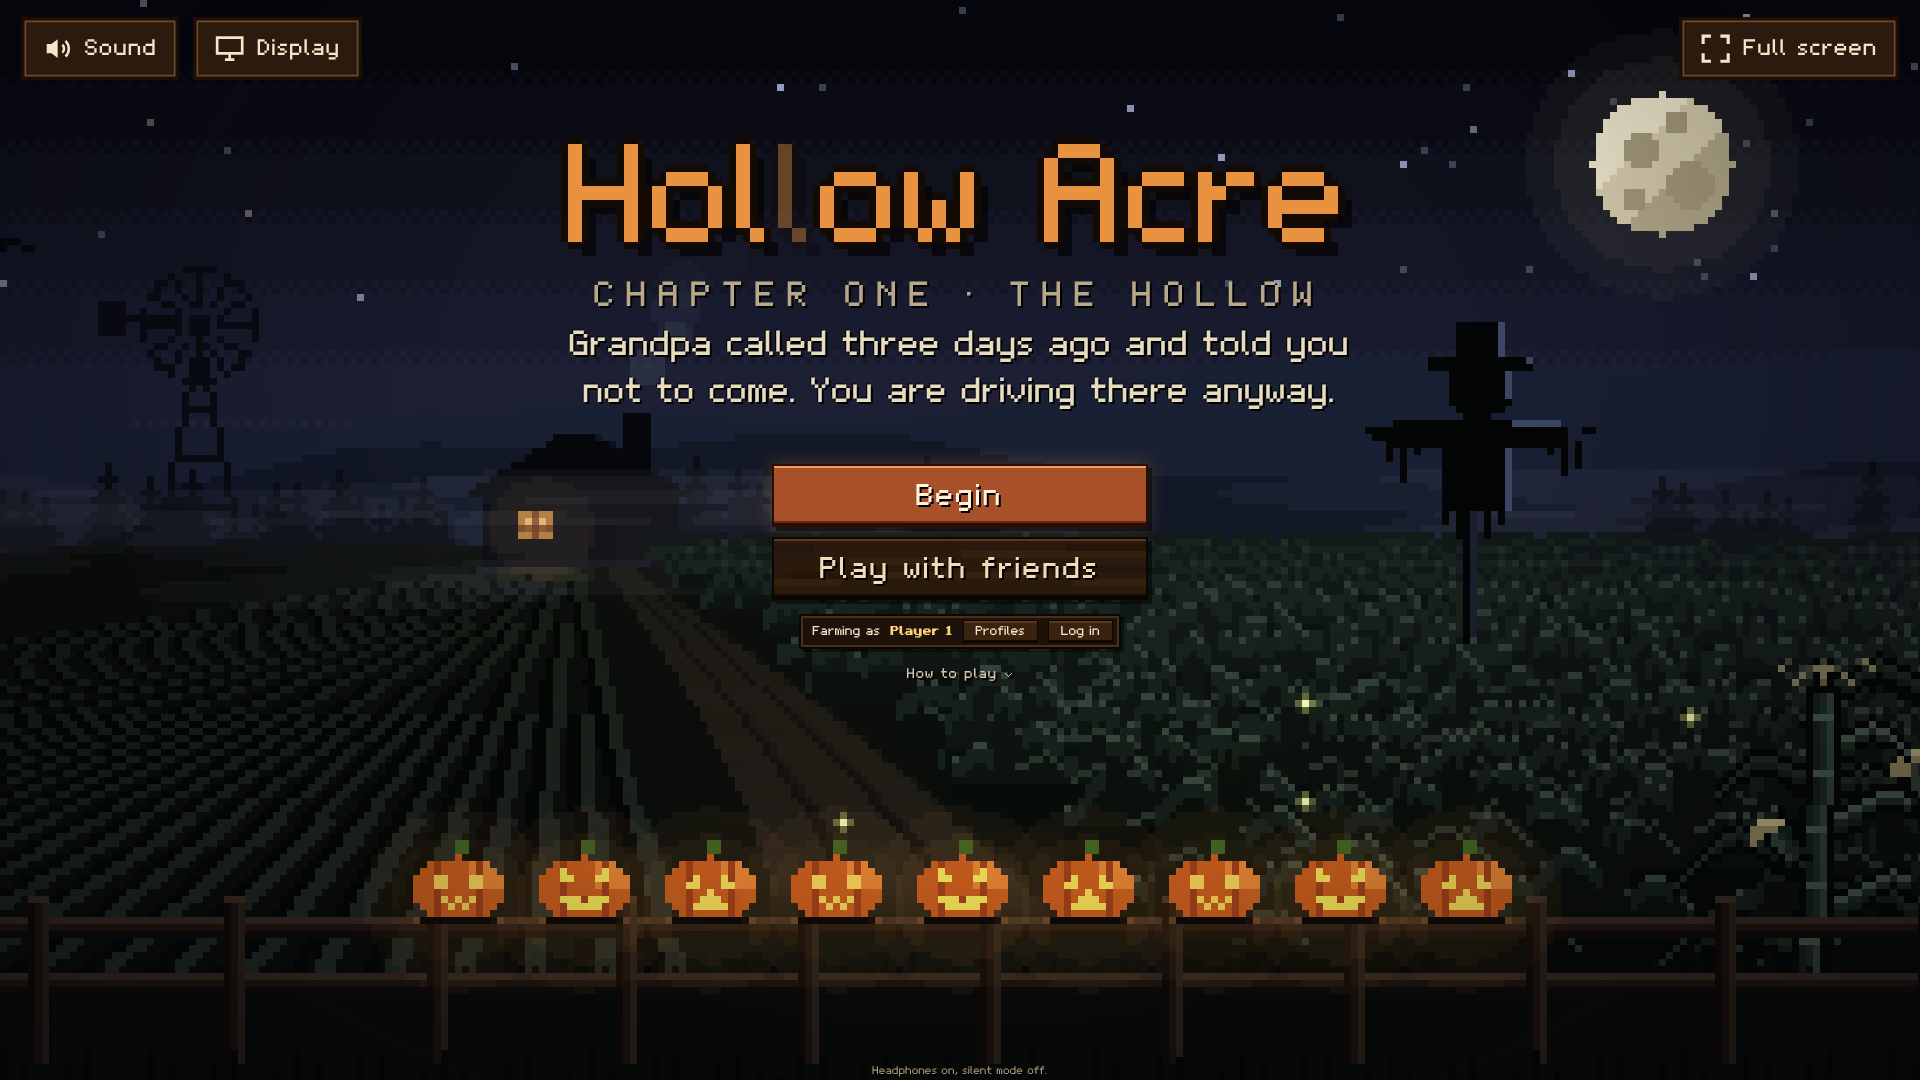
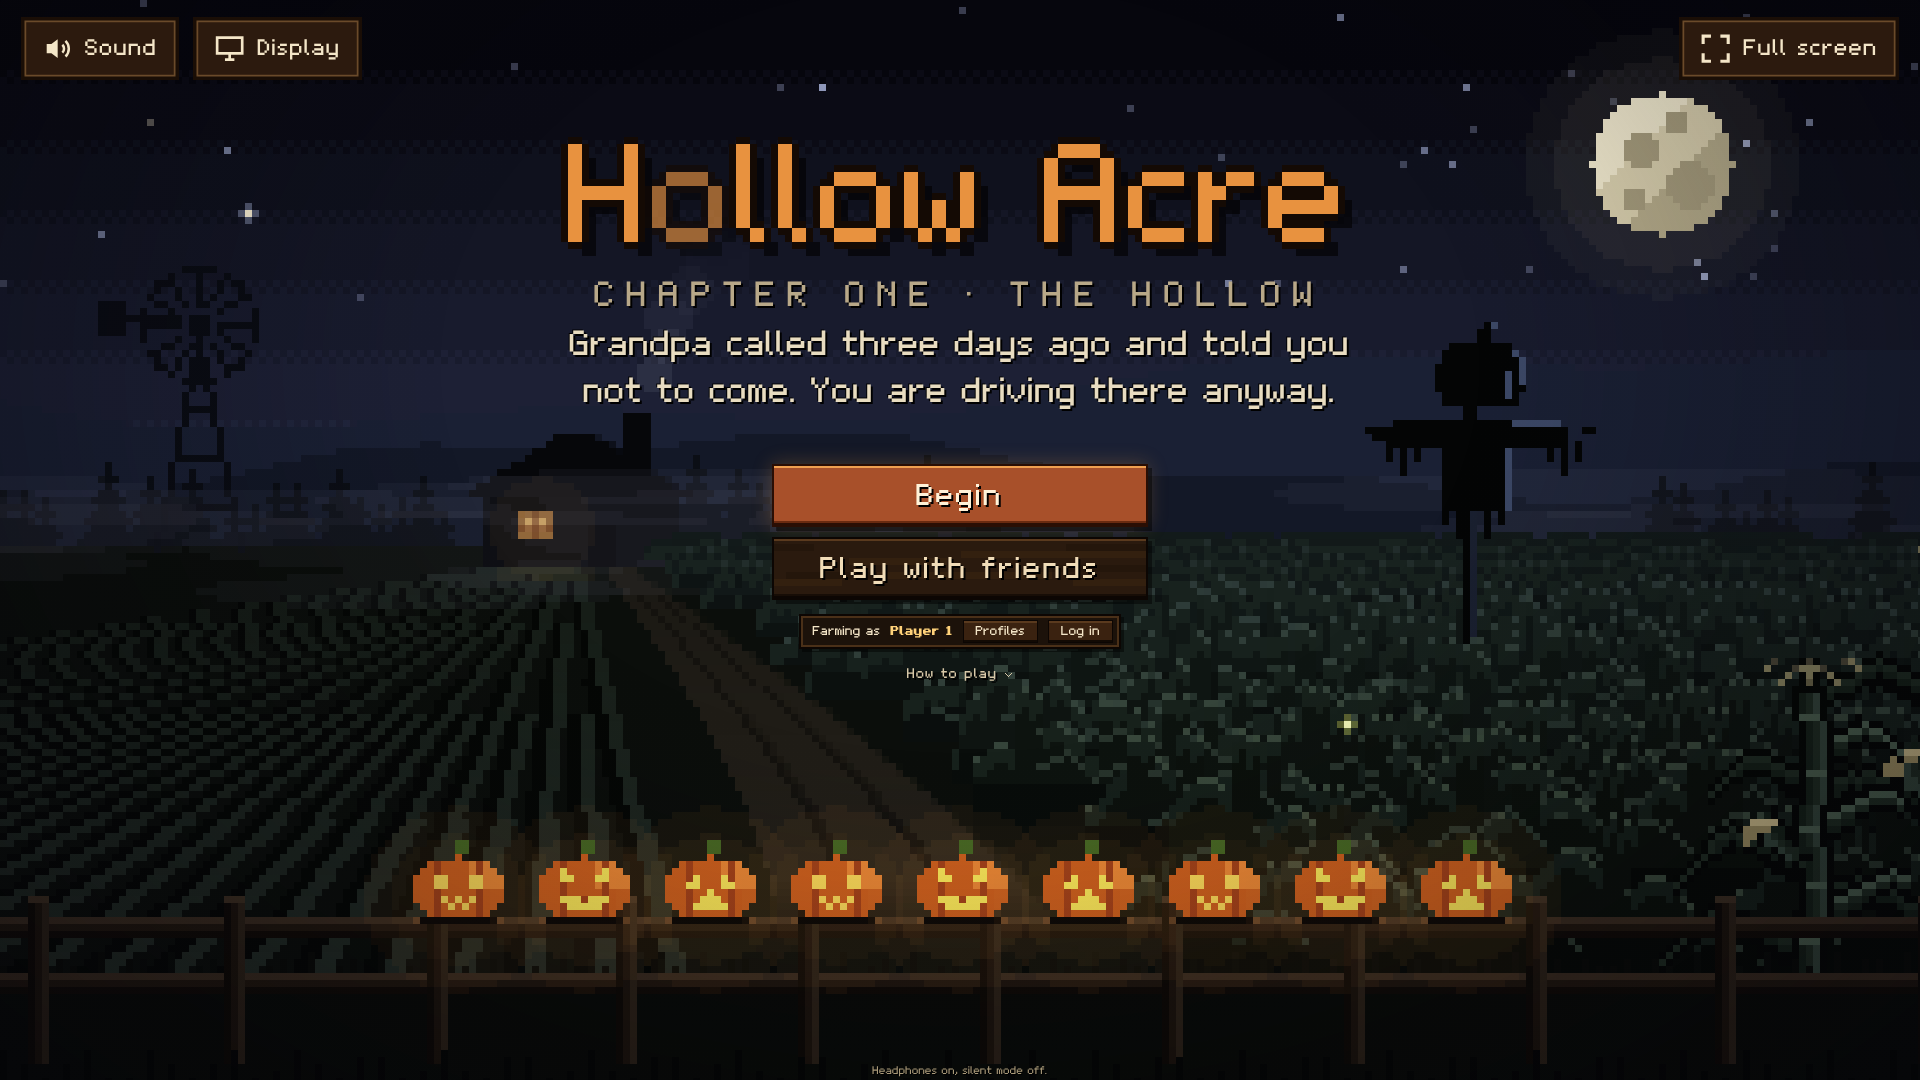
Demo and Game Jolt pictures: the loading screen's scarecrow wears its pumpkin
The demo's own page (shown while the game loads and on the thank-you screen)
draws the loading screen's night farm, so it now has the pumpkin-headed
scarecrow the game's loading screen got. The Game Jolt header, thumbnail and
title-screen pictures are redrawn from the same scene and the current title
screen.

Claude-Session: https://claude.ai/code/session_01P6pGQCq2oe4GSAnTdGYxNB

diff --git a/hollow-acre/2d/demo/index.html b/hollow-acre/2d/demo/index.html
@@ -200,7 +200,7 @@ window.HAScene=function(cv,opt){const scr=opt.host;if(!cv||!scr)return;const g=c
     for(const [cx,cy,r] of [[-3,-2,2],[4,3,3],[-4,5,1],[2,-6,1]])disc(mx+cx,my+cy,r,'#a89e7e');
     // crows cross now and then
     crowT-=dt;if(crowT<=0){crowT=5+rnd()*6;const n=3+(rnd()*4|0);for(let i=0;i<n;i++)crows.push({x:-10-i*9-rnd()*6,y:crowsY[0]+rnd()*(crowsY[1]-crowsY[0])+i*2,v:22+rnd()*8,p:rnd()*6});}
-    crows=crows.filter(c=>c.x<W+12);for(const c of crows){c.x+=c.v*dt;const f=Math.sin(t*14+c.p)>0;px(c.x,c.y,3,1,'#06070b');const o=f?-1:1;px(c.x-2,c.y+o,2,1,'#06070b');px(c.x+3,c.y+o,2,1,'#06070b');}
+    crows=crows.filter(c=>c.x<W+12);for(const c of crows){c.x+=c.v*dt;const f=Math.sin(t*14+c.p)>0;const K='#06070b';px(c.x,c.y,4,1,K);px(c.x+4,c.y-1,1,1,K);px(c.x-1,c.y+1,1,1,K);if(f){px(c.x,c.y-1,1,1,K);px(c.x-1,c.y-2,1,1,K);px(c.x+2,c.y-1,1,1,K);px(c.x+3,c.y-2,1,1,K);}else{px(c.x,c.y+1,1,1,K);px(c.x-1,c.y+2,1,1,K);px(c.x+2,c.y+1,1,1,K);px(c.x+3,c.y+2,1,1,K);}}
     g.drawImage(landC,0,0);
     // the wind pump on the skyline, turning slowly
     {const m=L.mill,top=HZ-30,C='#0a0c13';for(let k=0;k<=30;k++){const w=Math.round(6*(k/30));px(m-w,top+k,1,1,C);px(m+w,top+k,1,1,C);if(k%7===3)px(m-w,top+k,w*2+1,1,C);}
@@ -265,15 +265,15 @@ window.HAScene=function(cv,opt){const scr=opt.host;if(!cv||!scr)return;const g=c
     {const tx=sx(hb)+1,ty=base-hb;P(D,tx-1,ty-3,3,5);P('#6a6448',tx,ty-3,1,4);
       for(const [dir,len] of [[-1,6],[1,7],[-1,4],[1,4],[0,3]])for(let i=0;i<=len;i++){const xx=tx+dir*i,yy=ty-3-(dir?Math.round(Math.sin(i/len*2.2)*2.4)-Math.round((i/len)**2*3):i)+(len<5?2:0);P(i%3===2?'#4a4636':'#8a8460',xx,yy,1,1);}}
     return c;}
-  // the scarecrow on its post: a sack head under a hat, a coat with ragged sleeves on the crossbar, lit along its right side
+  // the scarecrow on its post: a carved pumpkin for a head (the field scarecrow's), a coat with ragged sleeves on the crossbar, lit along its right side
   // by the moon. It sways a little more than the wind does. Now and then its eyes are lit.
   function scare(){const sx=L.scx,sy=L.scy,s2=Math.round(Math.sin(t*.9)*1.4),C='#040505',R='#3c4866';
     px(sx,sy-36,2,36,C);px(sx-13,sy-33,28,2,C);px(sx-11+s2,sy-34,24,4,C);
     for(const [ox,len] of [[-12,3],[-10,5],[-8,2],[11,2],[13,5],[15,3]])px(sx+ox+s2,sy-31,1,len+(Math.sin(t*2+ox)>.6?1:0),C);px(sx-15+s2,sy-33,2,1,C);px(sx+16+s2,sy-33,2,1,C);
     px(sx-4+s2,sy-33,10,12,C);for(let k=0;k<5;k++)px(sx-4+k*2+s2,sy-21,1,2+(k%2)*2,C);
-    disc(sx+1+s2,sy-39,4,C);px(sx-6+s2,sy-43,15,2,C);px(sx-2+s2,sy-48,7,5,C);
-    px(sx+4+s2,sy-48,1,5,R);px(sx+8+s2,sy-43,1,1,R);px(sx+5+s2,sy-41,1,4,R);px(sx+6+s2,sy-34,7,1,R);px(sx+5+s2,sy-30,1,9,R);px(sx+1,sy-21,1,21,'#1a2030');
-    blink-=1/30;if(blink<-6)blink=.9;if(blink>0){px(sx-1+s2,sy-40,1,1,'#ff3a24');px(sx+3+s2,sy-40,1,1,'#ff3a24');}}
+    px(sx-4+s2,sy-44,11,8,C);px(sx-5+s2,sy-42,13,4,C);px(sx-3+s2,sy-45,9,1,C);px(sx-2+s2,sy-37,7,1,C);px(sx+1+s2,sy-47,2,2,C);px(sx+2+s2,sy-48,2,1,C);
+    px(sx+7+s2,sy-43,1,4,R);px(sx+6+s2,sy-44,1,1,R);px(sx+3+s2,sy-48,1,1,R);px(sx+5+s2,sy-41,1,4,R);px(sx+6+s2,sy-34,7,1,R);px(sx+5+s2,sy-30,1,9,R);px(sx+1,sy-21,1,21,'#1a2030');
+    blink-=1/30;if(blink<-6)blink=.9;if(blink>0){const G='#f0a040';px(sx-2+s2,sy-41,2,1,G);px(sx-1+s2,sy-42,1,1,G);px(sx+3+s2,sy-41,2,1,G);px(sx+3+s2,sy-42,1,1,G);px(sx-1+s2,sy-39,5,1,G);}}
   requestAnimationFrame(frame);};
 
 // ---------------------------------------------------------------- the night behind the title (the loading screen's own scene)
